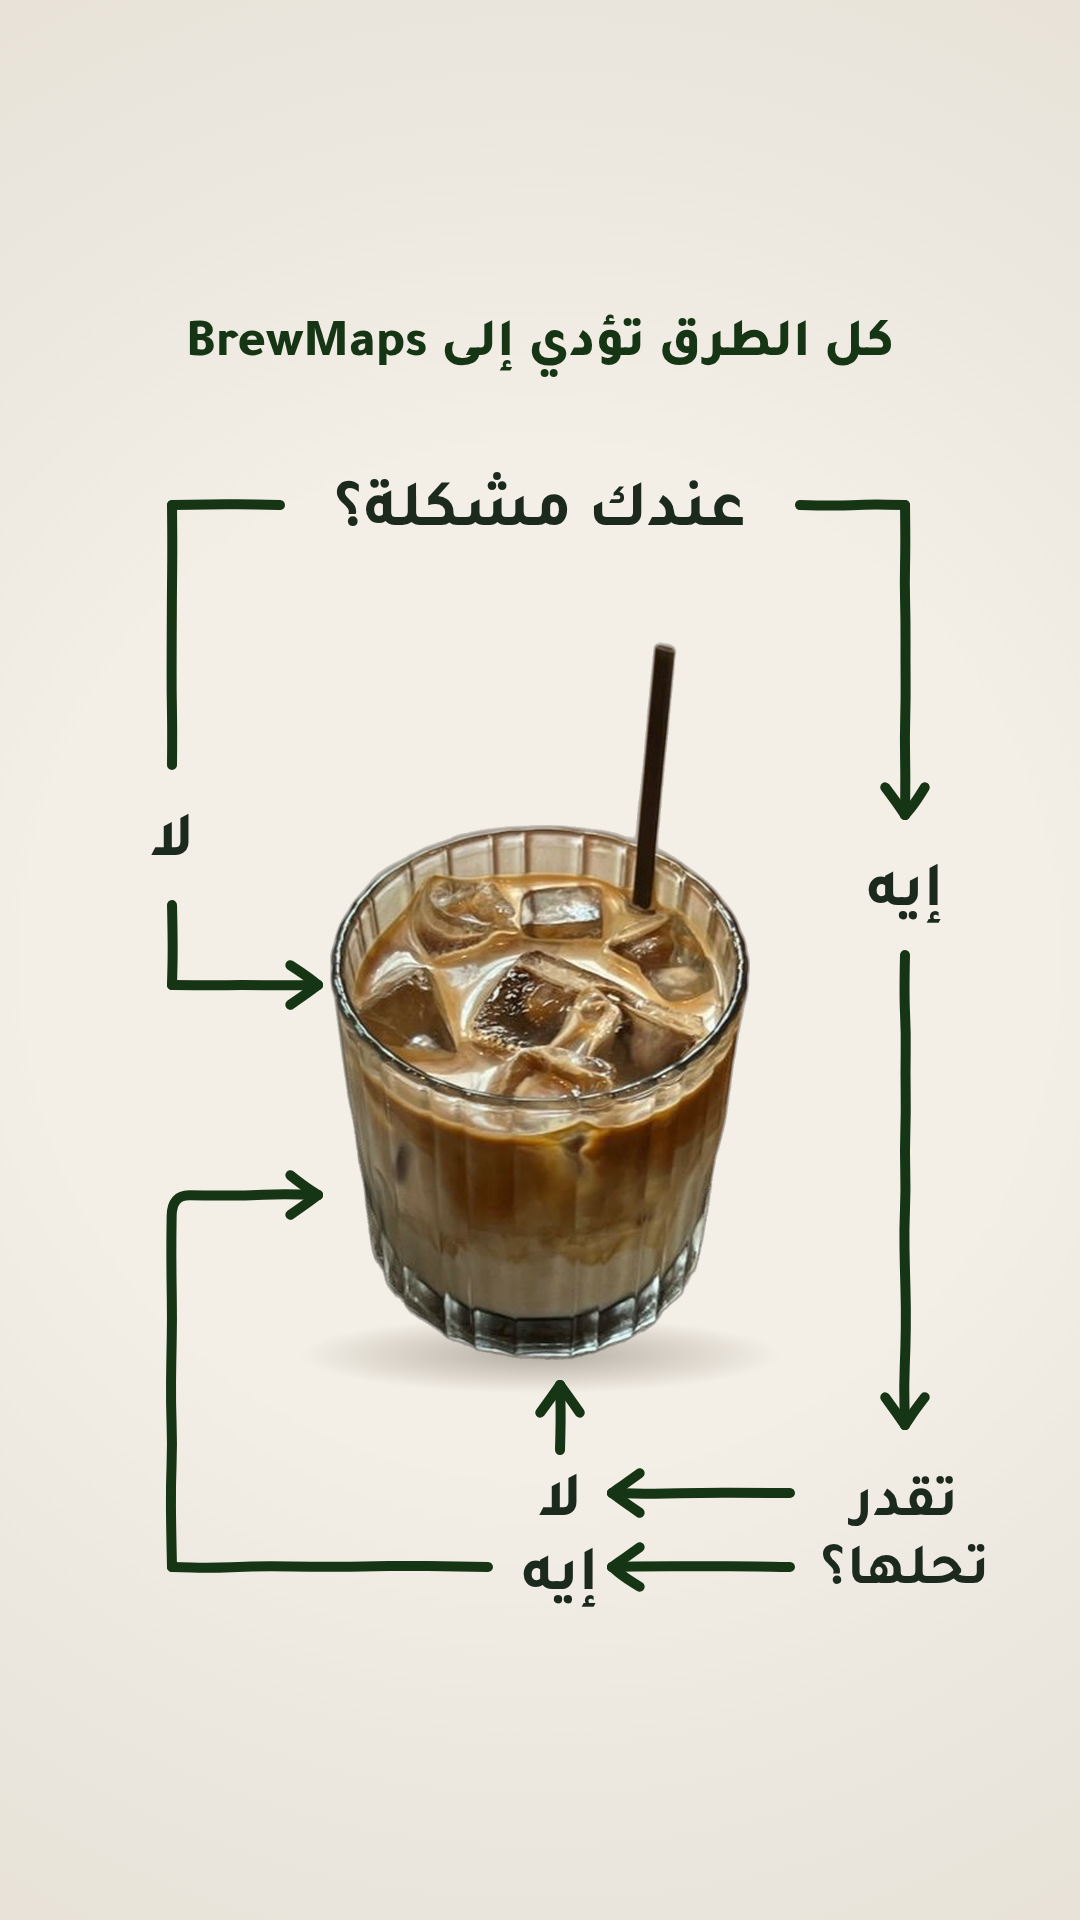
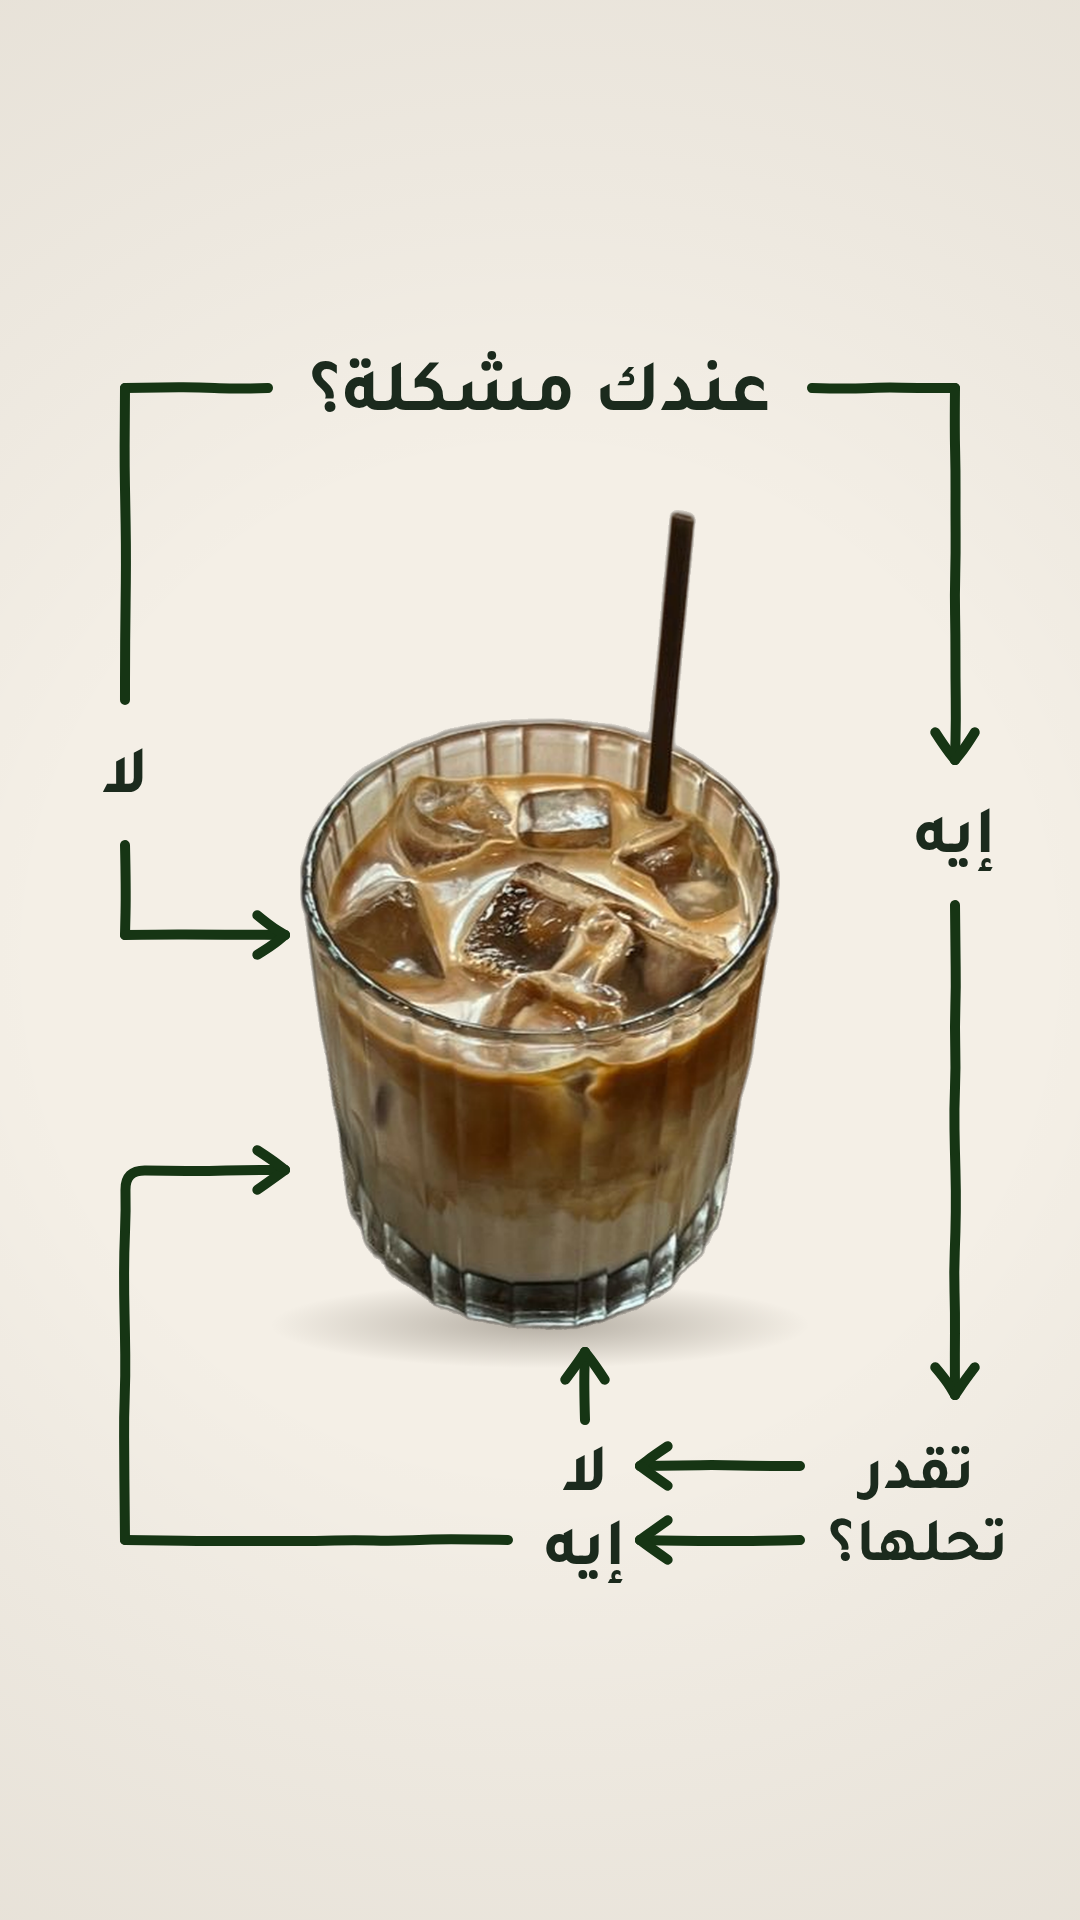
Flowchart story: no title, flowchart larger and centred for the 9:16 story frame
Claude-Session: https://claude.ai/code/session_01UCKVHF8Bj15Neb29ir5cAN

Changed region(s): [[0.0917, 0.25, 0.7333, 0.8438], [0.0917, 0.1562, 0.9472, 0.8438], [0.3056, 0.25, 0.5194, 0.2812]]

diff --git a/marketing/posts/coffee-flowchart-story/story.html b/marketing/posts/coffee-flowchart-story/story.html
@@ -10,13 +10,12 @@ const BG = '#F4EFE6', INK = '#1B2A1D', G = '#163514';
 const img = s => new Promise(r => { const i = new Image(); i.onload = () => r(i); i.src = s; });
 let seed = 7; const rnd = () => (seed = (seed * 16807) % 2147483647) / 2147483647;
 window.ready = (async () => {
-  await Promise.all([document.fonts.load('700 62px "Tajawal"', 'عندك مشكلة'), document.fonts.load('700 64px "Tajawal"', 'إيه لا'), document.fonts.load('800 54px "Tajawal"', 'كل الطرق BrewMaps')]);
+  await Promise.all([document.fonts.load('700 62px "Tajawal"', 'عندك مشكلة'), document.fonts.load('700 64px "Tajawal"', 'إيه لا'), document.fonts.load('700 74px "Tajawal"', 'عندك مشكلة؟')]);
   const cup = await img('img/glass-cutout.png'), logo = await img('../../assets/logos/logo-green.png');
   const c = document.getElementById('c').getContext('2d');
   c.fillStyle = BG; c.fillRect(0, 0, 1080, 1920);
   const v = c.createRadialGradient(540, 960, 500, 540, 960, 1250); v.addColorStop(0, 'rgba(0,0,0,0)'); v.addColorStop(1, 'rgba(60,45,20,0.08)');
   c.fillStyle = v; c.fillRect(0, 0, 1080, 1920);
-  c.translate(0, 25);                                       // balance the space above and below
   // a hand-drawn stroke: the path is resampled and nudged a little, so it reads drawn, not plotted
   const hand = pts => {
     const P = []; for (let i = 0; i < pts.length - 1; i++) { const [x0, y0] = pts[i], [x1, y1] = pts[i + 1], n = Math.max(2, Math.round(Math.hypot(x1 - x0, y1 - y0) / 40));
@@ -29,28 +28,27 @@ window.ready = (async () => {
   const arrow = pts => { hand(pts); const [x0, y0] = pts[pts.length - 2], [x1, y1] = pts[pts.length - 1]; head(x1, y1, Math.atan2(y1 - y0, x1 - x0)); };
   const ar = (t, x, y, size = 62, align = 'center', col = INK) => { c.direction = 'rtl'; c.textAlign = align; c.fillStyle = col; c.font = `700 ${size}px "Tajawal"`; c.fillText(t, x, y); };
   c.strokeStyle = G; c.lineWidth = 10; c.lineCap = 'round'; c.lineJoin = 'round';
-  // v3: the layout fills the story top to bottom (title 330 → last arrow ~1600)
-  c.direction = 'rtl'; c.textAlign = 'center'; c.fillStyle = G; c.font = '800 54px "Tajawal"'; c.fillText('كل الطرق تؤدي إلى BrewMaps', 540, 330);
-  ar('عندك مشكلة؟', 540, 500, 66);
+  // v4: no title; the flowchart alone, larger, wider and centred in the 9:16 frame (content ~340–1595, inside the safe zone)
+  ar('عندك مشكلة؟', 540, 410, 74);
   // right: إيه, down to "تقدر تحلها؟"
-  hand([[800, 480], [905, 480]]); arrow([[905, 480], [905, 790]]);
-  ar('إيه', 905, 880, 64);
-  arrow([[905, 930], [905, 1400]]);
-  ar('تقدر', 905, 1490, 58); ar('تحلها؟', 905, 1558, 58);
+  hand([[812, 388], [955, 388]]); arrow([[955, 388], [955, 760]]);
+  ar('إيه', 955, 852, 68);
+  arrow([[955, 905], [955, 1395]]);
+  ar('تقدر', 918, 1488, 62); ar('تحلها؟', 918, 1560, 62);
   // left: لا, straight into the coffee
-  hand([[280, 480], [172, 480]]); hand([[172, 480], [172, 740]]);
-  ar('لا', 172, 830, 64);
-  hand([[172, 880], [172, 960]]); arrow([[172, 960], [318, 960]]);
+  hand([[268, 388], [125, 388]]); hand([[125, 388], [125, 700]]);
+  ar('لا', 125, 792, 68);
+  hand([[125, 845], [125, 935]]); arrow([[125, 935], [285, 935]]);
   // the coffee: the supplied glass, cut out (glass and straw, no coaster)
-  const cw = 420, ch = cw * cup.height / cup.width, cx = 540 - cw / 2, cy = 1335 - ch;
-  const sh = c.createRadialGradient(540, 1330, 10, 540, 1330, 240); sh.addColorStop(0, 'rgba(40,30,15,0.3)'); sh.addColorStop(1, 'rgba(40,30,15,0)');
-  c.save(); c.translate(540, 1330); c.scale(1, 0.16); c.translate(-540, -1330); c.fillStyle = sh; c.fillRect(290, 1090, 500, 480); c.restore();
+  const cw = 480, ch = cw * cup.height / cup.width, cx = 540 - cw / 2, cy = 1330 - ch;
+  const sh = c.createRadialGradient(540, 1325, 10, 540, 1325, 270); sh.addColorStop(0, 'rgba(40,30,15,0.3)'); sh.addColorStop(1, 'rgba(40,30,15,0)');
+  c.save(); c.translate(540, 1325); c.scale(1, 0.16); c.translate(-540, -1325); c.fillStyle = sh; c.fillRect(260, 1055, 560, 540); c.restore();
   c.drawImage(cup, cx, cy, cw, ch);
   // from "تقدر تحلها؟": two arrows, to لا and إيه
-  arrow([[790, 1468], [612, 1468]]); arrow([[790, 1542], [612, 1542]]);
-  ar('لا', 560, 1490, 64); ar('إيه', 560, 1564, 64);
-  arrow([[560, 1425], [560, 1360]]);                                   // لا → up into the coffee
-  hand([[488, 1542], [172, 1542]]); arrow([[172, 1542], [172, 1170], [318, 1170]]);   // إيه → the long way round, still into the coffee
+  arrow([[800, 1466], [640, 1466]]); arrow([[800, 1540], [640, 1540]]);
+  ar('لا', 585, 1490, 68); ar('إيه', 585, 1564, 68);
+  arrow([[585, 1420], [585, 1352]]);                                   // لا → up into the coffee
+  hand([[508, 1540], [125, 1540]]); arrow([[125, 1540], [125, 1170], [285, 1170]]);   // إيه → the long way round, still into the coffee
   // v2: no logo at the foot; the line at the top says it
 })();
 window.png = () => document.getElementById('c').toDataURL('image/png');

diff --git a/marketing/posts/coffee-flowchart-story/README.md b/marketing/posts/coffee-flowchart-story/README.md
@@ -2,7 +2,7 @@
 
 After the "Is there a problem?" flowchart reference, in BrewMaps style and mirrored to read right to left: every answer
 leads to the coffee. Cream ground, hand-drawn forest-green arrows, Tajawal, and the supplied iced latte in a ribbed glass in the centre
-(`img/glass-source.jpg` → `img/glass-cutout.png`, rembg isnet; glass and straw, no coaster). The flowchart fills the story top to bottom. The line "كل الطرق تؤدي إلى BrewMaps" sits above the flowchart (no logo at the foot). No café, no emojis; all inside the story safe zone.
+(`img/glass-source.jpg` → `img/glass-cutout.png`, rembg isnet; glass and straw, no coaster). The flowchart fills the story top to bottom. No title or logo: the flowchart alone, centred in the 9:16 frame. No café, no emojis; all inside the story safe zone.
 
 عندك مشكلة؟ → لا → قهوة · → إيه → تقدر تحلها؟ → لا → قهوة · → إيه → قهوة
 
